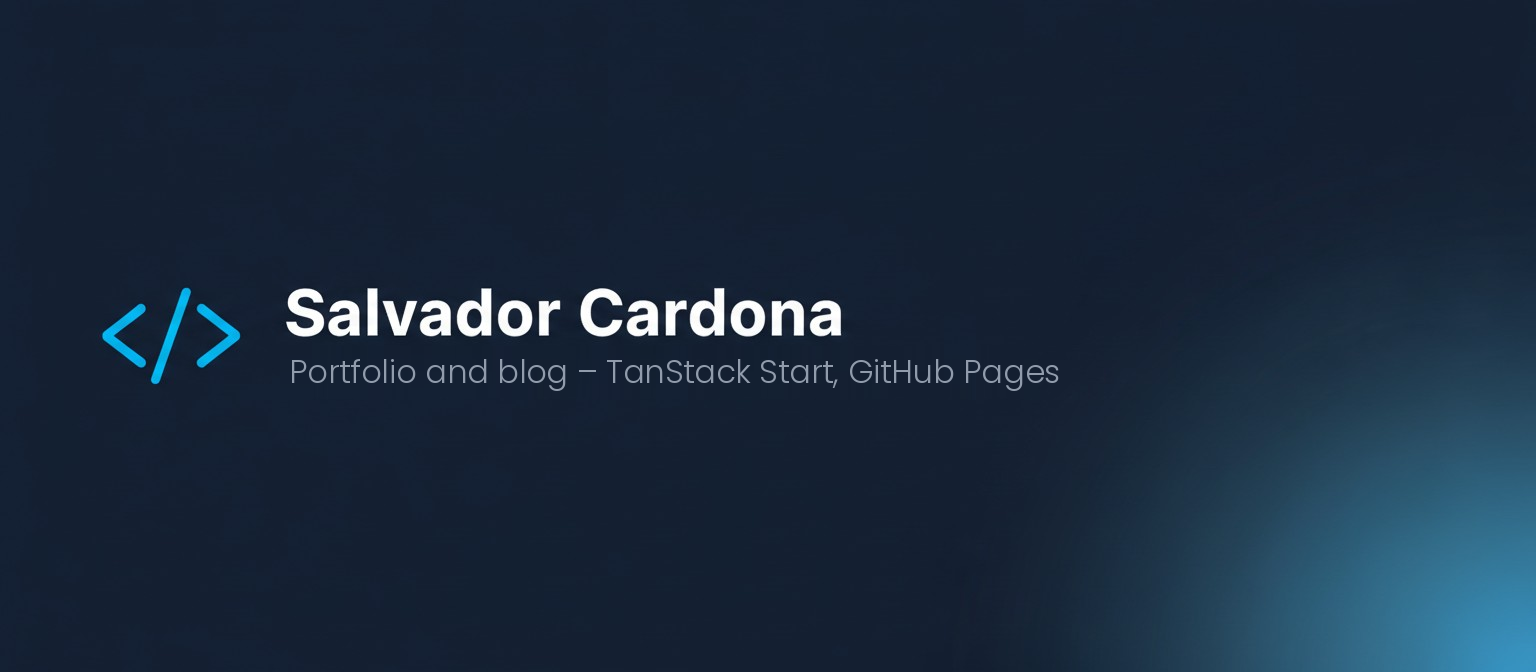
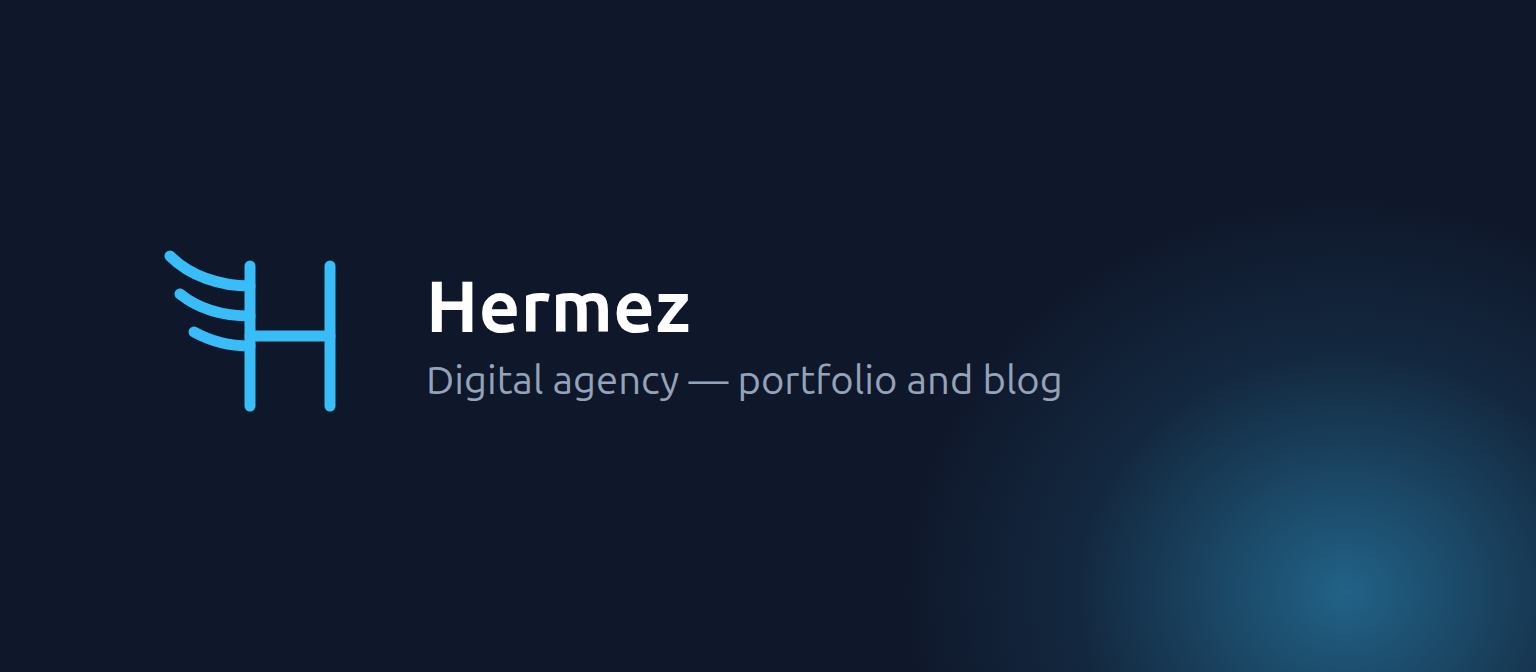
refactor: signe les visuels Hermez à la place de Salvador Cardona (#4)
Ajoute l'identité provisoire de l'agence Hermez (icône, bannière, signature
« A Hermez product »), la met en tête du README et remplace le nom sur la
bannière du portfolio.

Changed region(s): [[0.0625, 0.375, 0.6875, 0.625], [0.875, 0.5312, 1.0, 1.0]]

diff --git a/README.md b/README.md
@@ -1,9 +1,24 @@
-![Salvador Cardona](https://raw.githubusercontent.com/SalvadorCardona/brand-assets/main/projects/SalvadorCardona/banner.png)
+![Hermez](https://raw.githubusercontent.com/SalvadorCardona/brand-assets/main/projects/hermez/banner.png)
 
 # brand-assets
 
-Icônes et bannières des projets open source de [@SalvadorCardona](https://github.com/SalvadorCardona).
+Identité de Hermez, l'agence digitale qui porte les produits, et icônes et bannières
+de ses projets open source (dépôts [@SalvadorCardona](https://github.com/SalvadorCardona)).
 Un seul système visuel, une couleur par projet.
+
+## Hermez
+
+- **Nom** : « Hermez » en anglais, « Hermez agency » quand il faut préciser
+- **Logo** (provisoire) : un H à trois plumes d'aile, glyphe de ligne comme les autres — `projects/hermez/icon.png`. Tracé en SVG et rendu par Chrome headless, pas par Gemini, comme la bannière du portfolio
+- **Couleur** : argent `#e2e8f0`, neutre, pour ne se confondre avec aucun produit
+- **Signature** : en pied de page de chaque produit, en texte et en anglais :
+
+  ```
+  A Hermez product
+  ```
+
+  Le nom de l'éditeur (nom, raison sociale, SIRET) reste dans les mentions légales,
+  qui sont obligatoires ; il n'apparaît pas ailleurs dans l'interface.
 
 ## Charte
 
@@ -16,12 +31,13 @@ Un seul système visuel, une couleur par projet.
 
 ## Projets
 
+- `hermez` — argent `#e2e8f0`, l'agence elle-même
 - `animalink` — corail `#f87171`
 - `animalink-lead` — violet clair `#c084fc`
 - `opoil` — bleu pétrole `#38869c`, logo maison repris de [SalvadorCardona/opoil](https://github.com/SalvadorCardona/opoil) : `pwa/public/logo/opoil-mark.svg`
 - `trader-ia` — vert `#22c55e`
 - `SalvadorCardona` — sky `#38bdf8`
-- `salvadorcardona.github.io` — sky `#38bdf8`
+- `salvadorcardona.github.io` — sky `#38bdf8`, site de Hermez : la bannière porte le logo Hermez
 - `whisper-desk` — ambre `#fbbf24`
 - `ticket-runner` — violet `#a78bfa`
 - `gnome-claude-usage` — émeraude `#34d399`

diff --git a/CLAUDE.md b/CLAUDE.md
@@ -1,6 +1,6 @@
 # brand-assets
 
-Icônes et bannières des projets open source de [@SalvadorCardona](https://github.com/SalvadorCardona), rassemblées dans un système visuel unique.
+Identité de Hermez (l'agence digitale qui porte les produits) et icônes et bannières des projets open source de [@SalvadorCardona](https://github.com/SalvadorCardona), rassemblées dans un système visuel unique.
 
 ## Stack
 
@@ -50,5 +50,7 @@ Chaque projet a son propre dossier sous `projects/`, nommé exactement comme le 
 - **Une couleur par projet** — voir le tableau du README pour la liste complète, ne pas la dupliquer ici
 
 ## Pièges connus
+
+- Les produits sont signés Hermez (« A Hermez product »), pas « Salvador Cardona » ni « l'agence Cardona » : ce nom ne s'affiche que dans les mentions légales. Les dossiers `SalvadorCardona` et `salvadorcardona.github.io` gardent leur nom parce qu'ils suivent celui du dépôt GitHub.
 
 - Un projet qui a déjà son propre logo (ex. Opoil) **ne doit pas être régénéré** : on garde son logo maison et sa couleur de marque, on ne le remplace pas par le glyphe générique.
